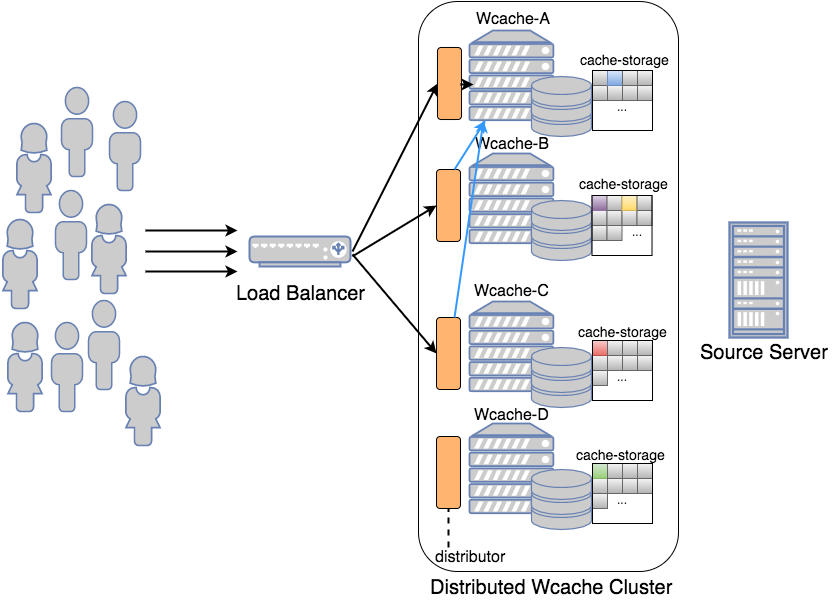
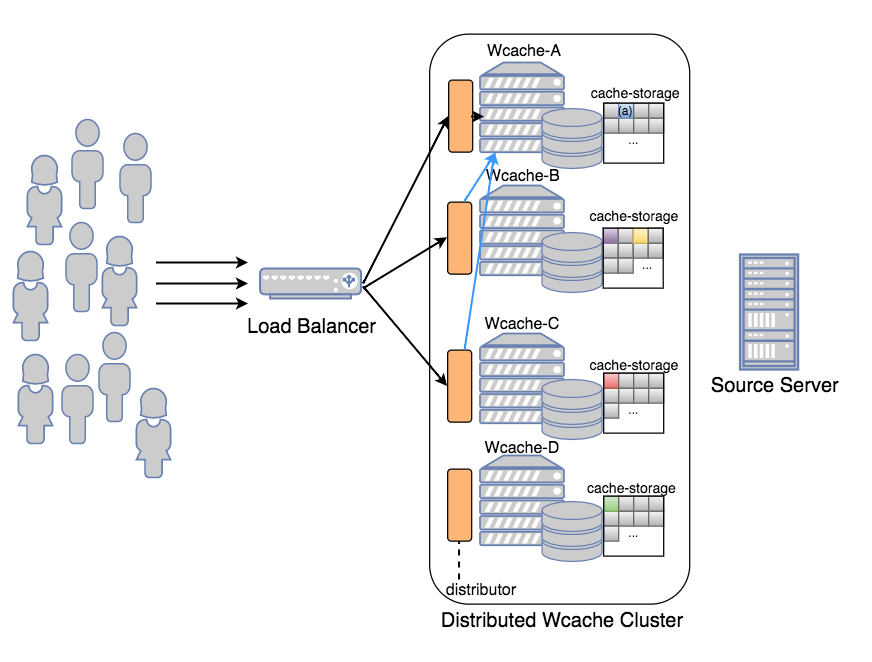
기타 첨삭된 부분 수정

Changed region(s): [[0.0, 0.0, 0.9905, 0.9818], [0.7738, 0.0, 0.8048, 0.0298]]

diff --git a/_posts/2017-10-23-wcache-2.md b/_posts/2017-10-23-wcache-2.md
@@ -58,12 +58,14 @@ JBF는 BigFile 단위로 포맷을 하게 되는데, 그룹을 만들지 않고 
 Wcache 초기 세팅 시 각 그룹에서 같은 순번에 있는 JBF들을 물리적 디스크상에서 인접하게 생성시키면(group 1의 1번 JBF, group 2의 1번 JBF, ... group 1의 2번 JBF, ...)
 컨텐츠를 디스크에 캐싱할 때 인접한 구역을 쓰기 때문에 HDD를 사용하는 경우 디스크의 seek time을 줄일 수 있는 중요한 요인이 됩니다.
 
-그러나 JBF들의 그룹을 만드는 구조는 한 가지 치명적인 단점이 있습니다. 바로 중복된 JBF 탐색입니다. 위 그림에서 볼 수 있듯이 캐싱된지 오래된 컨텐츠를 읽기
+### Bloom filter를 통한 JBF 성능 최적화
+
+JBF들의 그룹을 만드는 구조는 한 가지 치명적인 단점이 있습니다. 바로 중복된 JBF 탐색입니다. 위 그림에서 볼 수 있듯이 캐싱된지 오래된 컨텐츠를 읽기
 위해서는 쓸모없는 JBF 탐색이 들어가야 하는데, 이는 개편 후 초기 테스트 시 Wcache에 쌓이는 컨텐츠가 많아질수록 성능을 저하시키는 주요 원인이 되었습니다.
 
 ![Bloom filter 도식도. n번의 hash를 돌린 결과값이 전부 bucket에 존재하면 통과, 하나라도 없으면 실패. (출처: Wikipedia)](/files/bloom-filter.png) 
 
-이를 해결하기 위해 각 JBF 앞단에 bloom filter[^1]를 적용하게 됩니다. 블룸 필터는 어떤 원소가 집합에 속하였는지 확률적으로 알 수 있게 하는 함수입니다.
+이를 해결하기 위해 각 JBF 앞단에 bloom filter[^1]를 적용하게 됩니다. Bloom filter는 어떤 원소가 집합에 속하였는지 확률적으로 알 수 있게 하는 함수입니다.
 약간의 false positive만 가지고 있고 false negative는 없기 때문에 해당 필터를 통과하는 경우에만 JBF 조회를 하도록 변경을 함으로써 기존 대비 2 ~ 5배의 응답속도를 향상시켰습니다.
 
 ![Bloom filter를 적용한 경우와(주황색) 적용하지 않은 경우(파란색)의 응답속도 차이.](/files/wcache-bloom-stat.png)
@@ -79,21 +81,21 @@ HTTP 헤더 중에는 'Vary'라는 항목이 있습니다.
 ![Wcache의 기존 metadata 저장구조(a)와 개선된 저장구조(b)](/files/wcache-meta-before-after.png)
 
 이를 해결하기 위해 저장 구조 설계 시 처음부터 vary object의 존재를 고려하였습니다. Metadata를 두 개의 타입 (Meta / Info)으로 나누어,
-*Meta*에는 현재 Wcache에 캐싱되어있는 vary object의 종류와 info의 포인터를, *Info*에는 실제 컨텐츠의 정보 (offset, header 등)를 담도록 설계하였습니다.
+Meta에는 현재 Wcache에 캐싱되어있는 vary object의 종류와 info의 포인터를, Info에는 실제 컨텐츠의 정보 (offset, header 등)를 담도록 설계하였습니다.
 이 구조를 통해 여러 개의 vary object가 있어도, normal object와 공존해도 문제없이 사용자가 원하는 컨텐츠를 제공할 수 있게 됩니다.
 
 ## Lock 구조 개선 - 동일 컨텐츠 접근 시 생기는 병목현상 제거
-Wcache는 느슨한 구조의 액터 모델[^2]을 가지고 있습니다. 사용자의 요청이 들어오면 다수의 액터(HTTP 요청 수신 / 응답 / 컨텐츠 처리 / 소스 서버 통신)를 돌아다니며 처리됩니다. 
-각 액터는 I/O multiplexing 형식으로 동시에 여러 개의 요청을 다룰 수 있게 하여 최대한의 성능을 낼 수 있도록 설계되었습니다.
-그러나 디스크 I/O를 하는 액터는 내부적으로 blocking read / write를 수행하게 되어 단일 thread로는 원활한 성능을 얻을 수 없기에 내부적으로 multi thread 모델을 채택하였습니다.
+Wcache는 느슨한 구조의 actor model[^2]을 가지고 있습니다. 사용자의 요청이 들어오면 다수의 actor(HTTP 요청 수신 / 응답 / 컨텐츠 처리 / 소스 서버 통신)를 돌아다니며 처리됩니다. 
+각 actor는 I/O multiplexing 형식으로 동시에 여러 개의 요청을 다룰 수 있게 하여 최대한의 성능을 낼 수 있도록 설계되었습니다.
+그러나 디스크 I/O를 하는 actor는 내부적으로 blocking read / write를 수행하게 되어 단일 thread로는 원활한 성능을 얻을 수 없기에 내부적으로 multi thread 모델을 채택하였습니다.
 
-그러다보니 해당 구조에서는 캐싱된 컨텐츠를 처리하는 액터에서 컨텐츠를 조회하고 검증하는 동안 불가피하게 캐시 key에 대해 광범위한 lock 처리를 해야 했습니다. 
+그러다보니 해당 구조에서는 캐싱된 컨텐츠를 처리하는 actor에서 컨텐츠를 조회하고 검증하는 동안 불가피하게 캐시 key에 대해 광범위한 lock 처리를 해야 했습니다. 
 이 lock은 컨텐츠가 새로 갱신되거나 삭제(Purge)될 때를 위해 필요하지만, 이전 구조에서는 read / write lock 구분이 없었습니다. 
 이는 동일 컨텐츠를 집중적으로 요청할 때 해당 컨텐츠의 초당 처리수가 제한되는 문제를 야기합니다.
 일반적으로 특정 이벤트[^3]로 인해 트래픽이 증가하는 경우, 소수의 인기 있는 컨텐츠들이 집중적으로 요청되는 경우가 많으므로 이러한 성능 제한은 급작스런 트래픽 대응 시 잠재적인 문제가 될 수 있습니다.
   
 이를 해결하기 위해 먼저 read / write lock을 분리하여 평시에 컨텐츠가 집중적으로 요청되는 경우 동시에 접근이 가능할 수 있도록 하였습니다. 
-더 나아가 lock의 범위를 줄이고 추후 유지보수를 쉽게 하기 위해 순수하게 디스크 I/O 부분과 캐시 컨텐츠를 검증하는 부분을 별도의 액터로 분리해 조금 더 효율적인 처리를 할 수 있도록 변경하였습니다.
+더 나아가 lock의 범위를 줄이고 추후 유지보수를 쉽게 하기 위해 순수하게 디스크 I/O 부분과 캐시 컨텐츠를 검증하는 부분을 별도의 actor로 분리해 조금 더 효율적인 처리를 할 수 있도록 변경하였습니다.
 이 조치는 동일 컨텐츠 요청에 대해 기존 대비 약 3배의 성능 향상을 이루어냅니다.
 
 # 결과
@@ -104,4 +106,4 @@ regular expression 기반 대량 캐시 퍼지 등 - 에서 큰 발전을 이룰
 ---------------------------
 [^1]: [Bloom Filter](https://en.wikipedia.org/wiki/Bloom_filter)
 [^2]: [Actor Model](https://en.wikipedia.org/wiki/Actor_model)
-[^3]: 다음 앱에서의 뉴스속보(탄핵, 경주지진 등) 및 날씨알림 등의 푸시, 카카오톡 채널탭 뱃지 등..
+[^3]: 다음 앱에서의 뉴스속보 및 날씨알림 등의 푸시, 카카오톡 채널탭 뱃지 등..

diff --git a/_posts/2017-10-23-wcache-1.md b/_posts/2017-10-23-wcache-1.md
@@ -50,11 +50,11 @@ Reverse / Forward HTTP Proxy의 기본적인 기능(HTTP message control, access
 Metadata에는 URL을 기반으로 한 캐시 key와 컨텐츠가 저장되어 있는 위치(BigFile 정보 및 offset)등의 정보를 담고 있으며,
 이 정보는 컨텐츠가 저장되는 BigFile과는 별개로 SQLite DB에 저장합니다.
  
-디스크와 메모리의 효율적인 사용을 위해 Wcache는 HTTP 헤더와 일부 metadata 정보를 메모리상에 구성해둔 LRU hashtable에 캐싱합니다.
+디스크와 메모리의 효율적인 사용을 위해 Wcache는 HTTP 헤더와 일부 metadata 정보를 메모리상에 구성해둔 LRU hash table에 캐싱합니다.
 메모리에 캐싱되어 있는 컨텐츠에 대해서는 DB 접근 없이 바로 응답이 가능하며,
 캐싱되어 있지 않은 컨텐츠에 접근할 때는 DB에서 컨텐츠가 저장되어 있는 BigFile 정보를 읽어 컨텐츠에 대한 정보를 읽어오게 됩니다.
  
-![Memory hashtable에 캐싱된 경우 컨텐츠를 접근하는 방법.](/files/wcache-structure.png)
+![In-memory hash table에 캐싱된 경우 컨텐츠를 접근하는 방법.](/files/wcache-structure.png)
 
 ## Wcache의 분산 구성
 ![Standalone 상태의 Wcache를 병렬로 구성한 단순한 구조, 각 Wcache에 중복된 컨텐츠들이 캐싱되어있다.](/files/wcache-standalone.png)
@@ -64,10 +64,10 @@ LB가 사용자 요청을 단순히 round robin 방식으로 분산하고 있어
 
 ![단순한 클러스터 구조. Load Balancer를 통해 분산된 클라이언트 요청을 해당 컨텐츠가 있는 Wcache로 라우팅 해준다.](/files/wcache-cluster.png)
 
-이를 해결하기 위해 Wcache는 분산 구조를 지원하게 됩니다. 위 그림처럼 여러 대의 Wcache 노드로 구성된 클러스터를 구성하여 consistent hashing
+이를 해결하기 위해 Wcache는 분산 구조를 지원하였습니다. 위 그림처럼 여러 대의 Wcache 노드로 구성된 클러스터를 구성하여 consistent hashing
 기법을 이용해 컨텐츠를 고르게 분포시키고, 클라이언트 요청이 들어왔을 때 알맞은 노드에 요청을 라우팅 해주도록 설계하였습니다.
 이 방법은 각 Wcache가 고유한 컨텐츠를 저장함으로써 캐시 효율을 증가시킬 수는 있었습니다. 그러나 특정 컨텐츠가 인기가 많은 hot item이 되는 경우,
-(위 그림에서 하늘색 컨텐츠) 수많은 요청이 하나의 Wcache로 몰리는 현상이 일어나게 되고, 결국 트래픽을 감당할 수 없게 됩니다.
+(예: 위 그림의 Wcache-A에 존재하는 (a)컨텐츠) 수많은 요청이 하나의 Wcache로 몰리는 현상이 일어나게 되고, 결국 트래픽을 감당할 수 없게 됩니다.
 
 ![Dual layer 구조. 1차 layer는 아래의 Wcache들을 하나의 cluster로 바라본다. 2차 layer는 기존처럼 standalone으로 동작한다.](/files/wcache-dual-layer.png)
 
@@ -76,7 +76,7 @@ LB가 사용자 요청을 단순히 round robin 방식으로 분산하고 있어
 캐시 miss가 발생했을 경우 2차 layer 중 적절한 Wcache 노드에 요청합니다.
 위 구조의 효과를 배가시키기 위해 1차 layer에 I/O 속도가 빠른 SSD를 탑재한 장비를,
 2차 layer에는 상대적으로 속도는 느리지만 큰 저장공간을 가진 HDD 장비를 탑재하여 빠른 응답속도와 높은 캐시 hit율, 두 마리 토끼를 전부 잡을 수 있었습니다.
-특히 소수의 유명한 컨텐츠가 매우 많이 요청되고, 나머지 컨텐츠의 사용 빈도가 기하급수적으로 낮아지는 long tail[^2] 분포를 나타내는 서비스에 대해 효과적인 캐시 효율과 성능을 보여 주었습니다.
+특히 소수의 유명한 컨텐츠가 매우 많이 요청되고, 나머지 컨텐츠의 사용 빈도가 기하급수적으로 낮아지는 long tail[^2] 분포를 나타내는 서비스에 대해 높은 캐시 효율과 성능을 보여 주었습니다.
 
 ## 결론
 이렇게 구성한 Wcache는 현재 카카오 서비스에서 수십만 TPS 상당의 트래픽을 95% 이상의 높은 캐시 hit율을 가지며 안정적으로 처리하고 있습니다.
